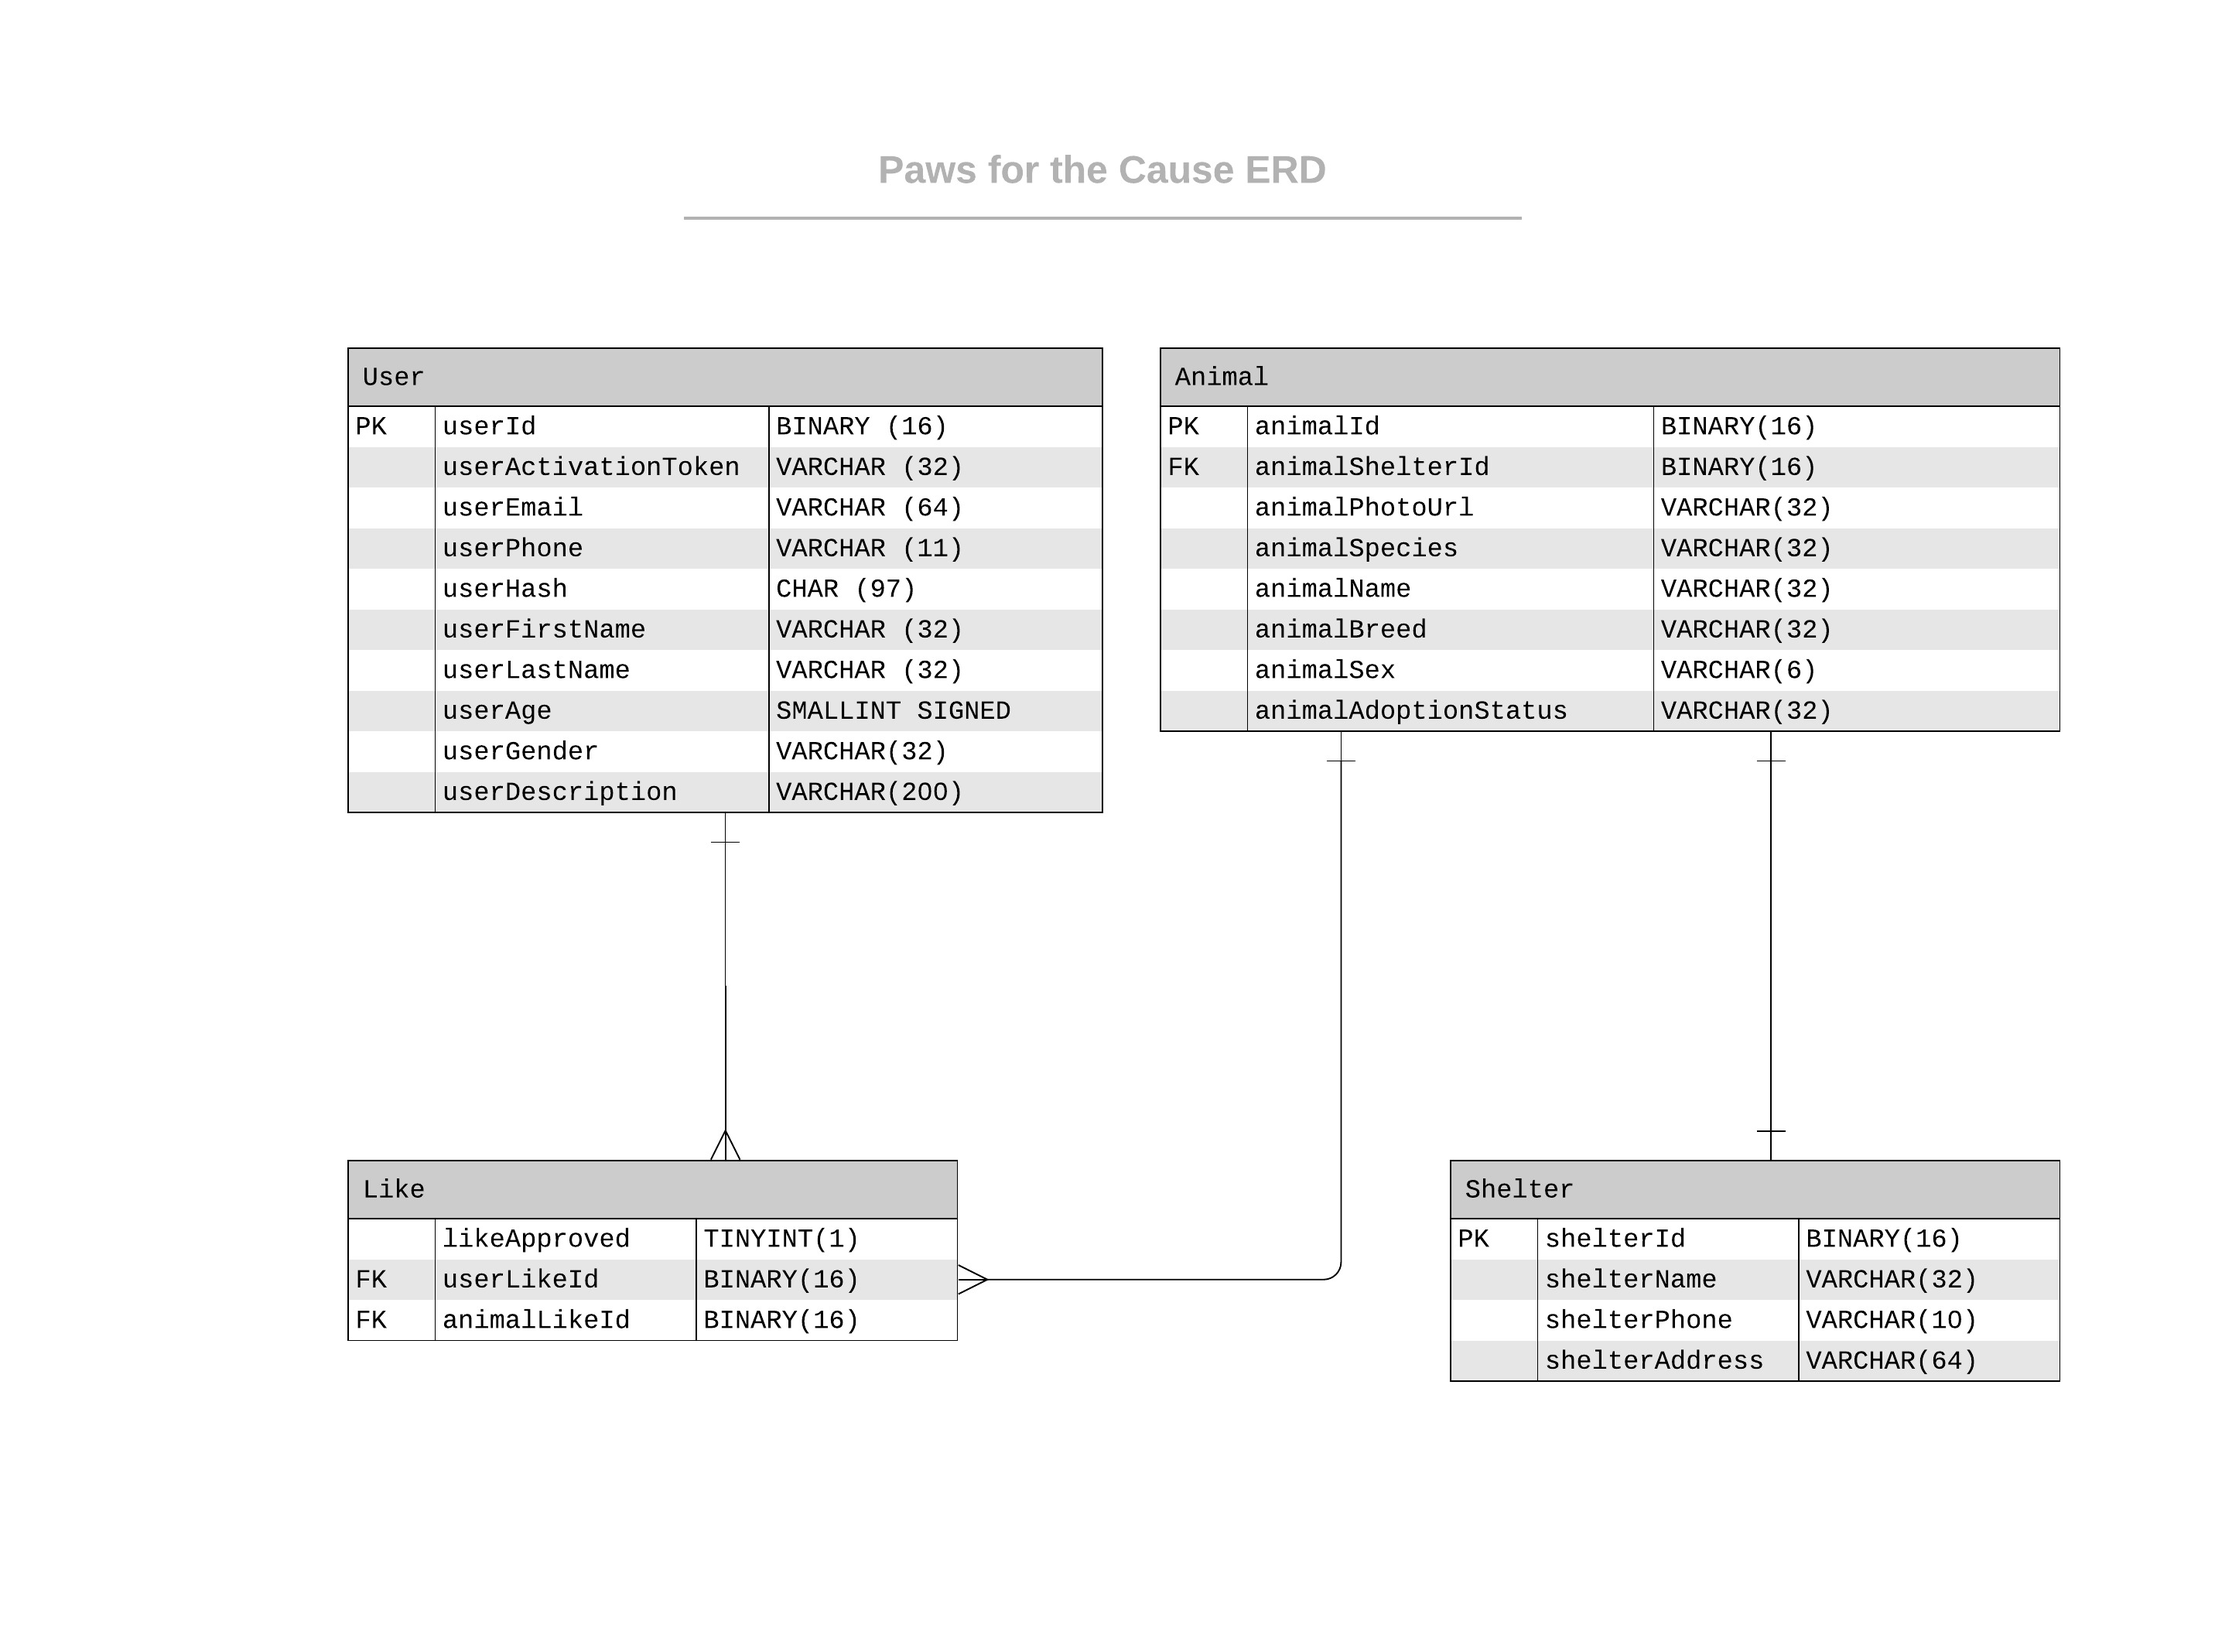
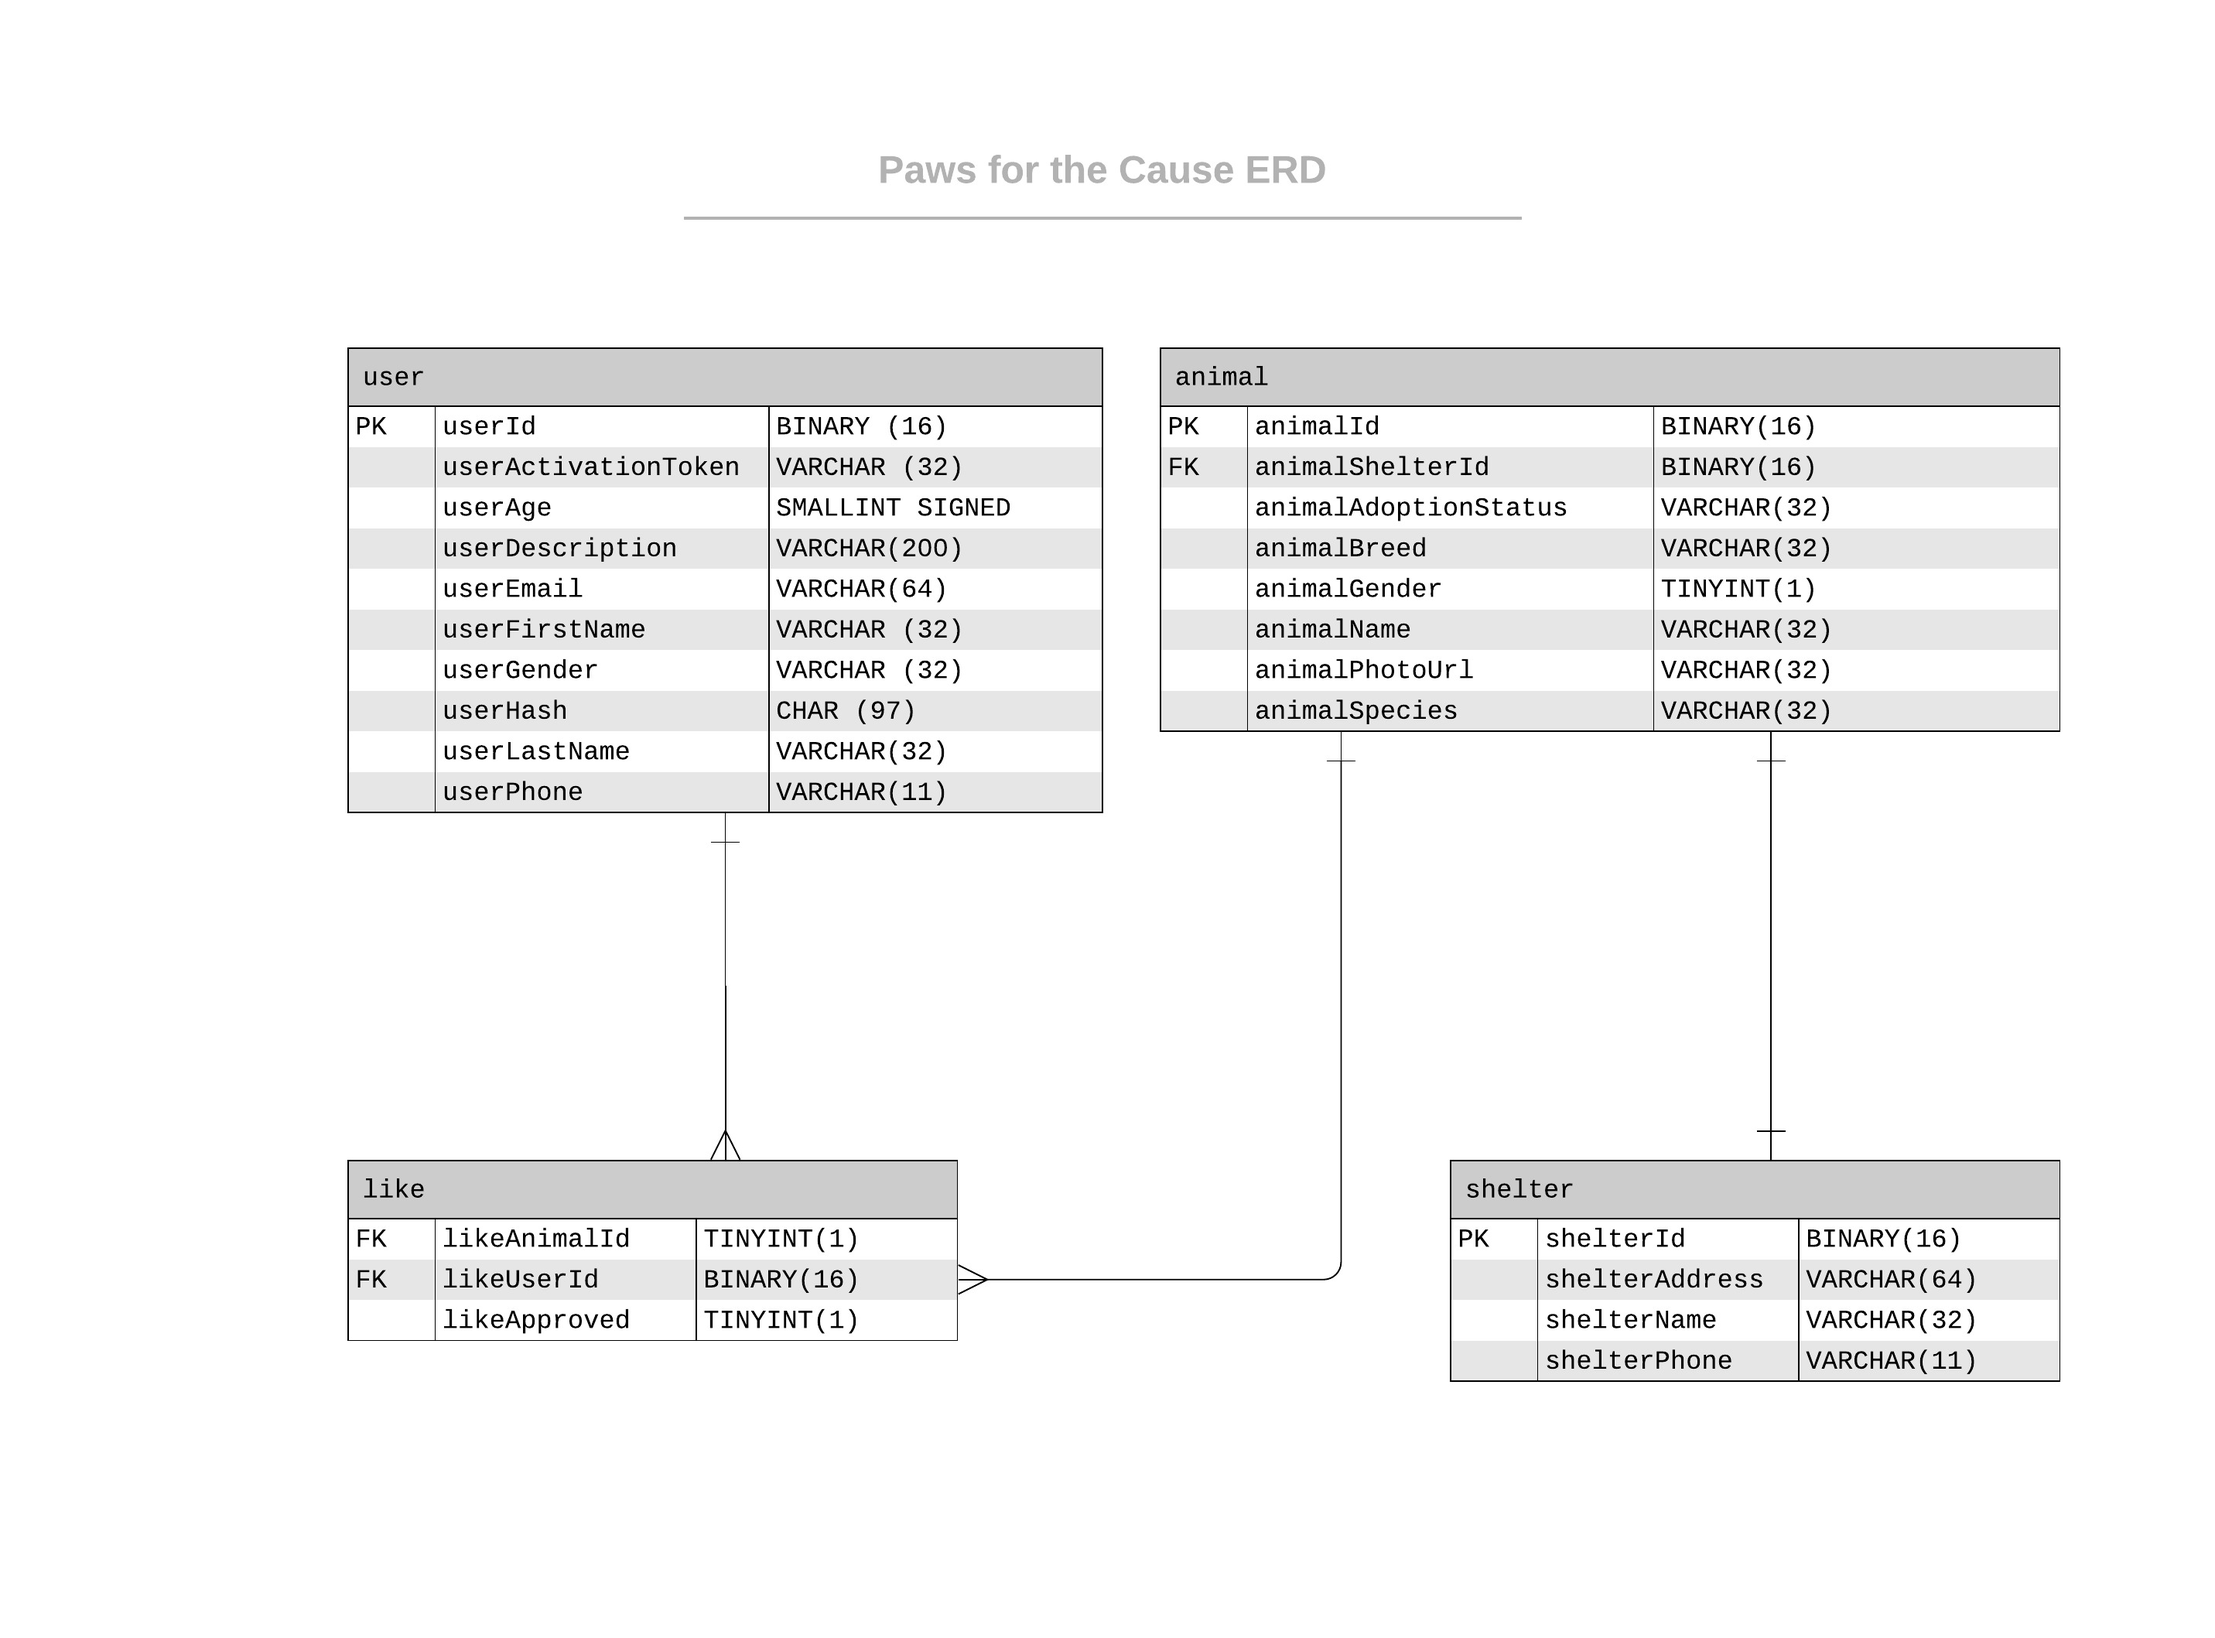
added wireframe.html, edited concept model

diff --git a/epic/concept-model.html b/epic/concept-model.html
@@ -7,18 +7,19 @@
 </head>
 <body>
 <h1>Conceptual Model</h1>
+
 <h4>User</h4>
 <ul>
 	<li>userId BINARY(16) NOT NULL, Primary Key</li>
 	<li>userActivationToken VARCHAR (32) NOT NULL, </li>
-	<li>userEmail VARCHAR(64) NOT NULL,</li>
-	<li>userPhone VARCHAR(32) NOT NULL,</li>
-	<li>userHash CHAR(97) NOT NULL,</li>
-	<li>userFirstName VARCHAR (32) NOT NULL,</li>
-	<li>userLastName VARCHAR (32) NOT NULL,</li>
 	<li>userAge SMALLINT SIGNED, </li>
+	<li>userDescription VARCHAR (200),</li>
+	<li>userEmail VARCHAR(64) NOT NULL,</li>
+	<li>userFirstName VARCHAR (32) NOT NULL,</li>
+	<li>userHash CHAR(97) NOT NULL,</li>
 	<li>userGender CHAR(8) NOT NULL,</li>
-	<li>userDescription VARCHAR (140),</li>
+	<li>userLastName VARCHAR (32) NOT NULL,</li>
+	<li>userPhone VARCHAR(32) NOT NULL,</li>
 
 </ul>
 <h4>Animal</h4>
@@ -26,26 +27,26 @@
 	<li>animalId BINARY(16) NOT NULL, Primary Key</li>
 	<li>animalShelterId BINARY(16) NOT NULL, Foreign Key</li>
 	<li>animalAdoptionStatus VARCHAR(32) NOT NULL,</li>
-	<li>animalPhotoUrl VARCHAR (32) NOT NULL,</li>
-	<li>animalSpecies VARCHAR (32) NOT NULL,</li>
-	<li>animalName VARCHAR(32) NOT NULL,</li>
 	<li>animalBreed VARCHAR(32) NOT NULL,</li>
 	<li>animalGender VARCHAR(6) NOT NULL,</li>
+	<li>animalName VARCHAR(32) NOT NULL,</li>
+	<li>animalPhotoUrl VARCHAR (32) NOT NULL,</li>
+	<li>animalSpecies VARCHAR (32) NOT NULL,</li>
 </ul>
 
 <h4>Shelter</h4>
 <ul>
 	<li>shelterId BINARY(16) Primary Key</li>
+	<li>shelterAddress VARCHAR(64) NOT NULL,</li>
 	<li>shelterName VARCHAR(32) NOT NULL,</li>
 	<li>shelterPhone VARCHAR(10) NOT NULL,</li>
-	<li>shelterAddress VARCHAR(64) NOT NULL,</li>
 </ul>
 
 <h4>Like</h4>
 <ul>
 	<li>likeApproved TINYINT(1) NOT NULL</li>
-	<li>userLikeId BINARY(16) NOT NULL Foreign Key</li>
-	<li>animalLikeId BINARY(16) NOT NULL Foreign Key</li>
+	<li>likeUserId BINARY(16) NOT NULL Foreign Key</li>
+	<li>likeAnimalId BINARY(16) NOT NULL Foreign Key</li>
 </ul>
 
 <img class="erd_img" src="img/paws-for-the-cause-erd.jpeg" alt="Entity Relationship Diagram for Paws for the Cause project">

diff --git a/epic/Wireframes/wireframes.html b/epic/Wireframes/wireframes.html
@@ -1,0 +1,20 @@
+<!DOCTYPE html>
+<html>
+<head>
+	<meta charset="UTF-8">
+	<title>Wireframes</title>
+	<link rel="stylesheet" href="epic/style.css" type="text/css">
+</head>
+<body>
+<h1>Wireframes</h1>
+<div>
+<img src="animal-information.png" alt="animal information wireframe">
+<img src="hearted-animals.png" alt="hearted animal wireframe">
+<img src="log-in-page.png" alt="login page wireframe">
+<img src="preferences.png" alt="preferences wireframe">
+<img src="profile-page.png" alt="profile wireframe">
+<img src="sign-up.png" alt="sign up wireframe">
+<img src="splash-page.png" alt="splash page wireframe">
+</div>
+</body>
+</html>
